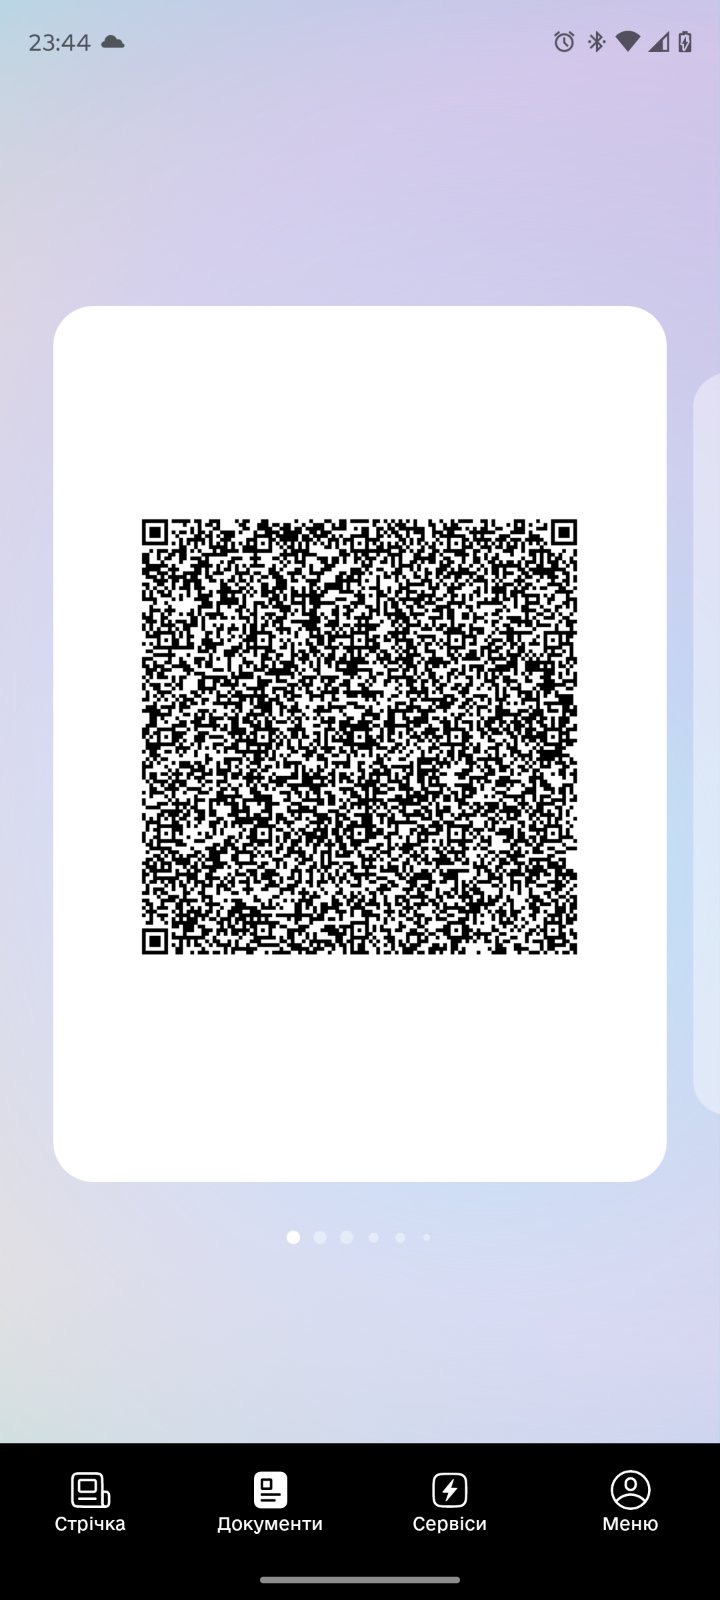
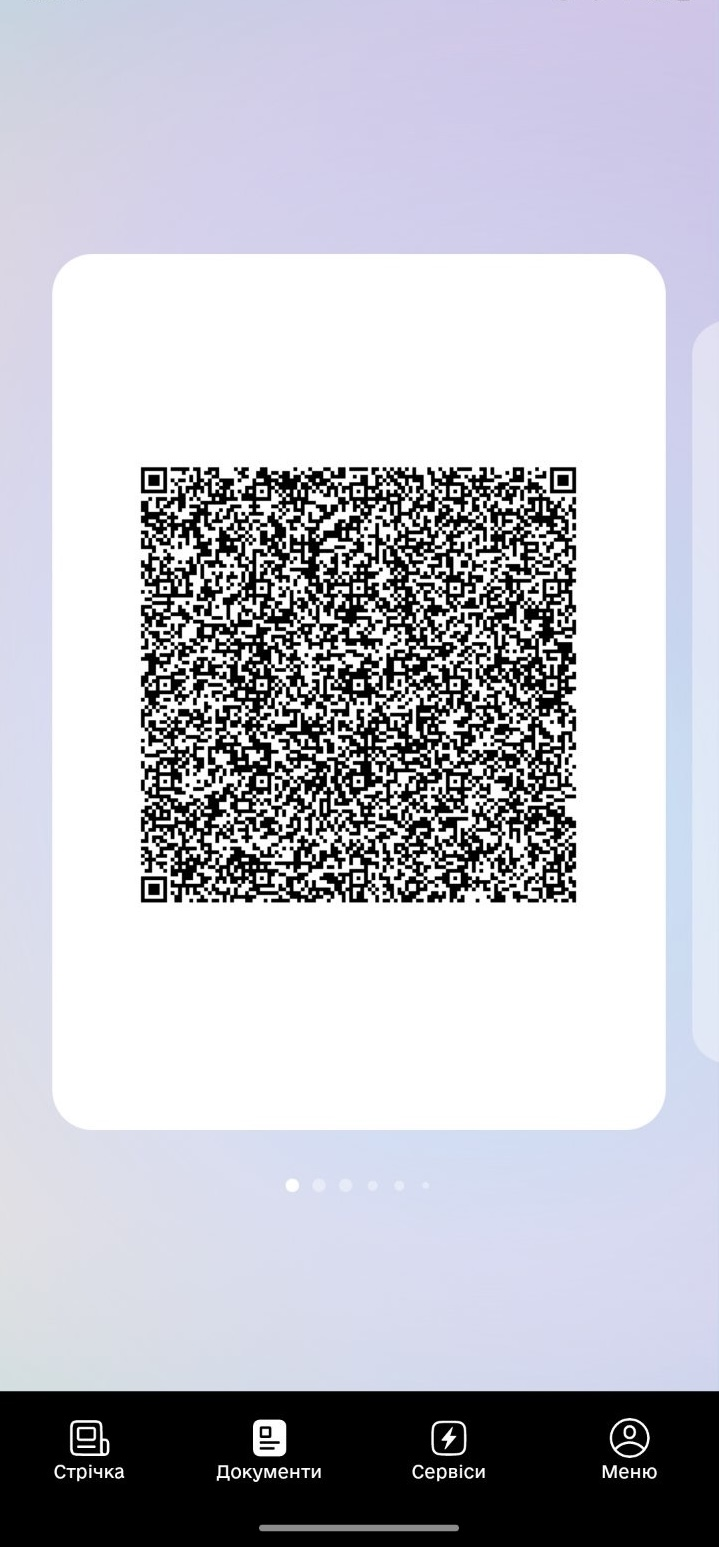
adjustment 1.1

diff --git a/static/main.js b/static/main.js
@@ -3,6 +3,8 @@ const reserveMain = document.querySelector('.reserve-main');
 const runningLineDia = document.querySelector('.running-line-dia');
 const diaMain = document.querySelector('.dia-main');
 const diaMainPhoto = document.querySelector('.dia-main-photo');
+const diaOpenQrDiaBtn = document.querySelector('.open-qr-dia-btn');
+const diaCloseQrDiaBtn = document.querySelector('.close-qr-btn');
 const reserveMainBlock = document.querySelector('.main-block');
 const menuSelect = document.querySelector('.menu-select');
 const menuSelectBackground = document.querySelector('.menu-select-background');
@@ -96,6 +98,8 @@ function openQrCode() {
 function openDiaQrCode() {
     qrCodeDia.style.display = 'block';
     diaMain.style.display = 'none';
+    diaOpenQrDiaBtn.style.display = 'none';
+    diaCloseQrDiaBtn.style.display = 'block';
     diaMainPhoto.style.display = 'none';
     runningLineDia.style.visibility = 'hidden';
 }
@@ -110,6 +114,8 @@ function closeQrCodeDia() {
     diaMain.style.display = 'block';
     diaMainPhoto.style.display = 'block';
     runningLineDia.style.visibility = 'visible';
+    diaOpenQrDiaBtn.style.display = 'block';
+    diaCloseQrDiaBtn.style.display = 'none';
 }
 
 function prepareDate() {

diff --git a/static/main.css b/static/main.css
@@ -88,7 +88,7 @@ button:focus {
 
 .running-line-dia {
     position: absolute;
-    bottom: 297px;
+    bottom: 302px;
     font-weight: 500;
     width: 85%;
     margin-left: 29px;
@@ -281,10 +281,10 @@ button:focus {
 .open-qr-dia-btn {
     position: absolute;
     z-index: 2;
-    width: 137px;
+    width: 174px;
     height: 270px;
     bottom: 247px;
-    left: 205px;
+    left: 171px;
 }
 
 .close-qr-btn {
@@ -374,9 +374,9 @@ button:focus {
     position: absolute;
     z-index: 5;
     width: 146px;
-    height: 189px;
+    height: 196px;
     border-radius: 10px;
-    top: 214px;
+    top: 206px;
     left: 43px;
 }
 

diff --git a/index.html b/index.html
@@ -89,7 +89,7 @@
         <button class="home" onclick="closeReserve()"></button>
     </div>
     <div class="action-container">
-        <img src="assets/dia-main.JPG" alt="image" class="dia-main">
+        <img src="assets/dia.jpg" alt="image" class="dia-main">
         <img src="assets/main-photo.jpg" alt="photo" class="dia-main-photo">
 
         <div class="running-line-dia">
